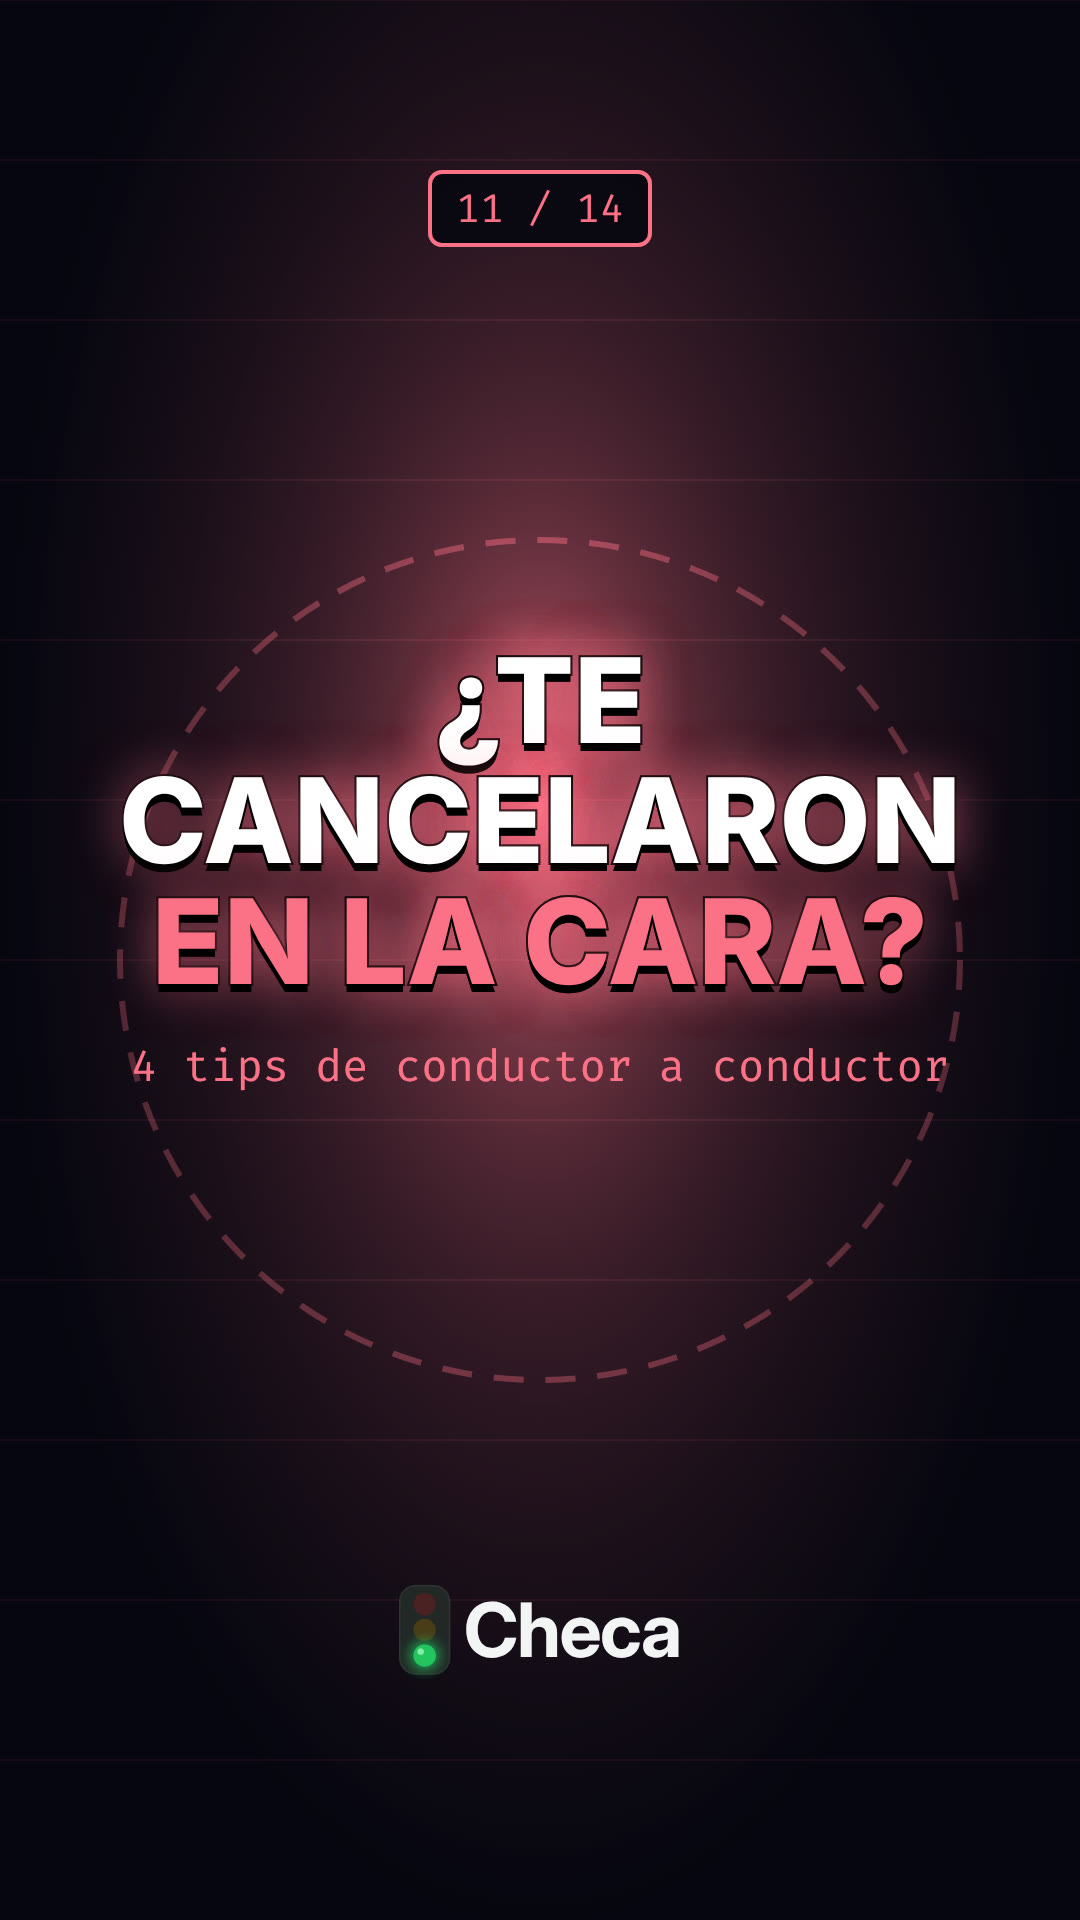
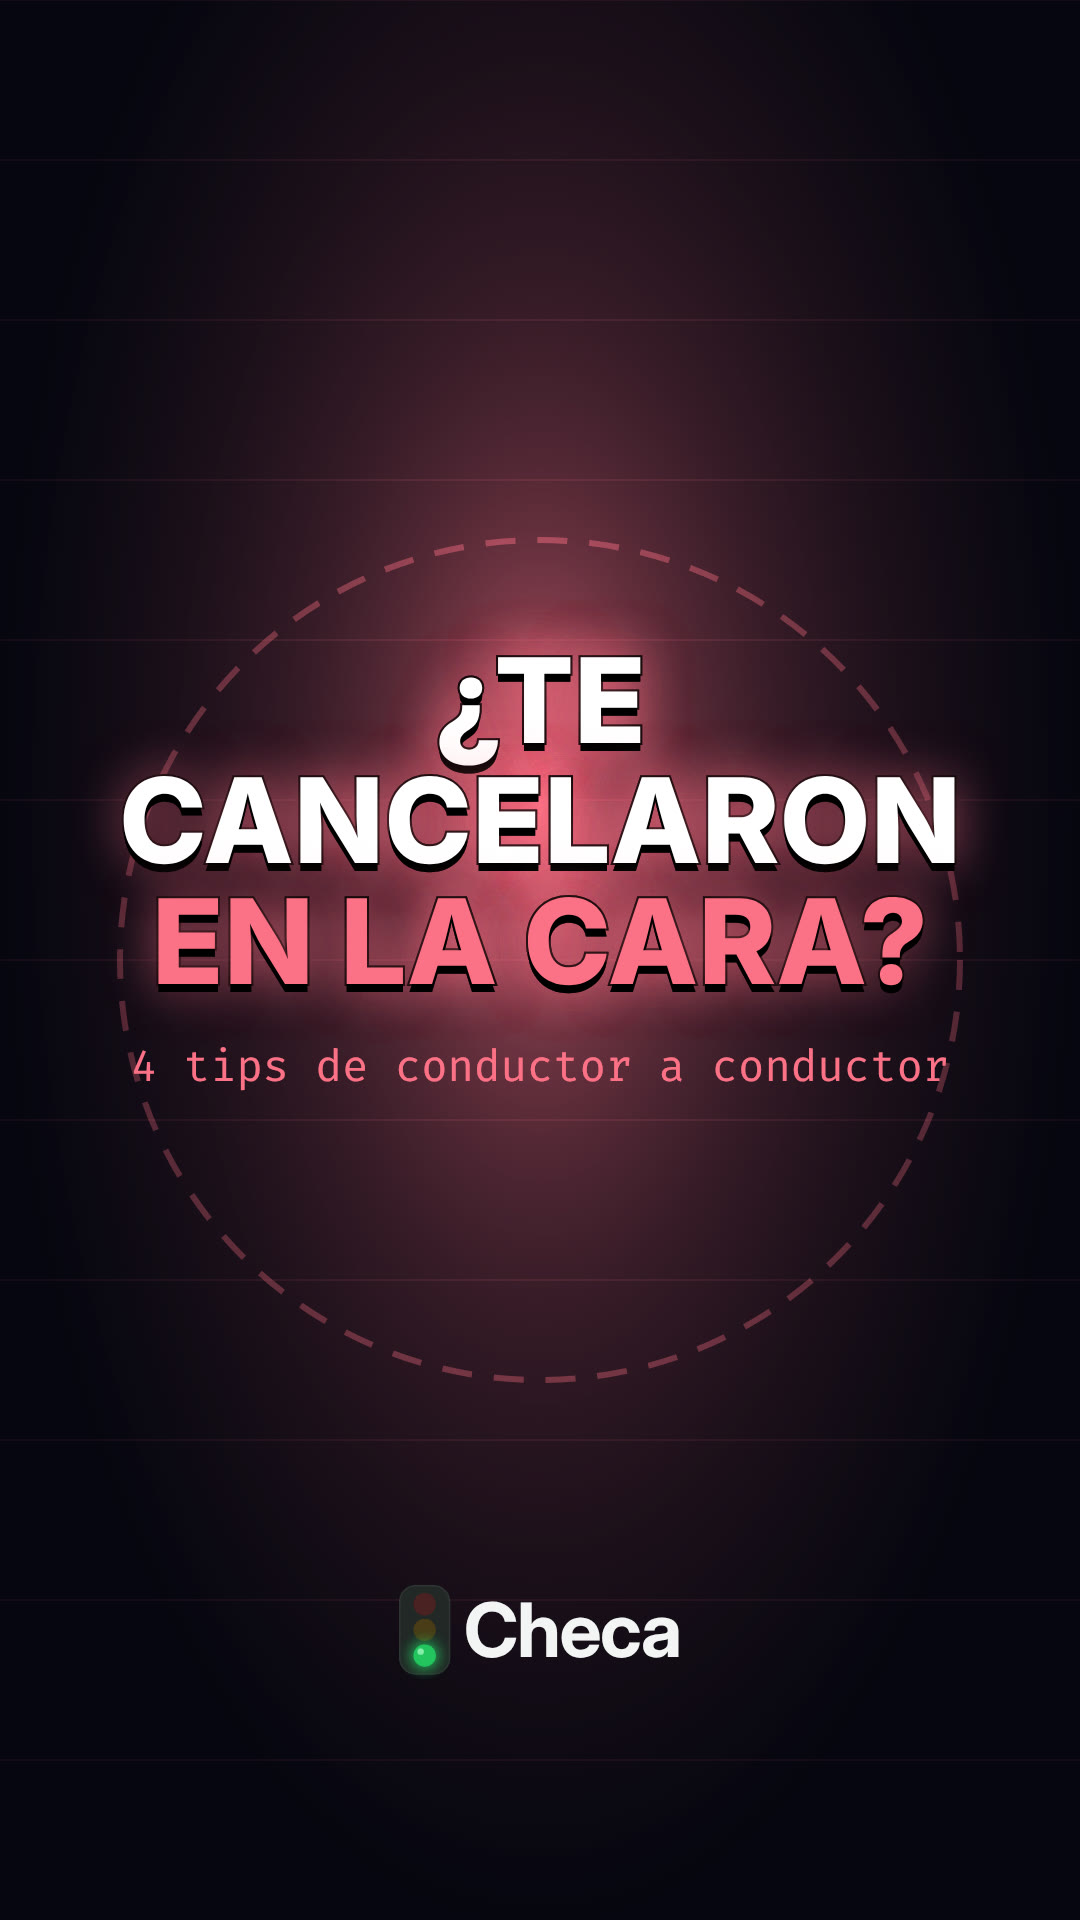
Portadas sin numeración de serie; texto de beta con guía de instalación [skip ci]
Claude-Session: https://claude.ai/code/session_01Prvi64YcWBMVNRA6fJ4kVc

Changed region(s): [[0.3972, 0.0625, 0.6111, 0.1562]]

diff --git a/video/src/Checa/Portada.tsx b/video/src/Checa/Portada.tsx
@@ -21,9 +21,9 @@ export const Portada: React.FC<PropsPortada> = ({ titulo, sub, color, etiqueta, 
         <circle cx={540} cy={960} r={420} fill="none" stroke={color} strokeOpacity={0.25} strokeWidth={6} strokeDasharray="30 22" />
       </svg>
     )}
-    <div style={{ position: "absolute", top: 170, left: 0, right: 0, display: "flex", justifyContent: "center" }}>
+    {etiqueta ? <div style={{ position: "absolute", top: 170, left: 0, right: 0, display: "flex", justifyContent: "center" }}>
       <div style={{ fontFamily: "FiraCode", fontSize: 40, color, border: `4px solid ${color}`, borderRadius: 14, padding: "8px 24px", background: "rgba(5,6,15,0.8)" }}>{etiqueta}</div>
-    </div>
+    </div> : null}
     <div style={{ position: "absolute", top: fondo ? 1150 : 640, left: 70, right: 70, textAlign: "center" }}>
       <div style={{ fontFamily: "Inter", fontWeight: 800, fontSize: 118, lineHeight: 1.02, color: "#FFFFFF", WebkitTextStroke: "4px #000", paintOrder: "stroke fill", textShadow: `0 8px 0 #000, 0 0 50px ${color}88` }}>
         {titulo.split("|").map((t, k) => (

diff --git a/marketing/textos-publicacion.md b/marketing/textos-publicacion.md
@@ -73,4 +73,4 @@ Un día bien y tres mal. 4 tips para no vivir al día: fondo de emergencia, sobr
 ## Campaña · `beta-testers.mp4` (grupos de Facebook y WhatsApp)
 Compañeros, hice una app para saber si un viaje conviene antes de aceptarlo: te dice cuánto te queda limpio después de gasolina y el pago por kilómetro.
 Busco 50 conductores que la usen gratis por 3 meses y me den su opinión. Si la compartes con un amigo, les doy 1 mes más a cada uno.
-Comenta «YO» o mándame mensaje y te paso el acceso. Funciona en Android con Uber y DiDi.
+Comenta «YO» o mándame mensaje y te paso el acceso. Funciona en teléfonos Android, con Uber y DiDi; te paso el acceso y una guía corta para instalarla.
